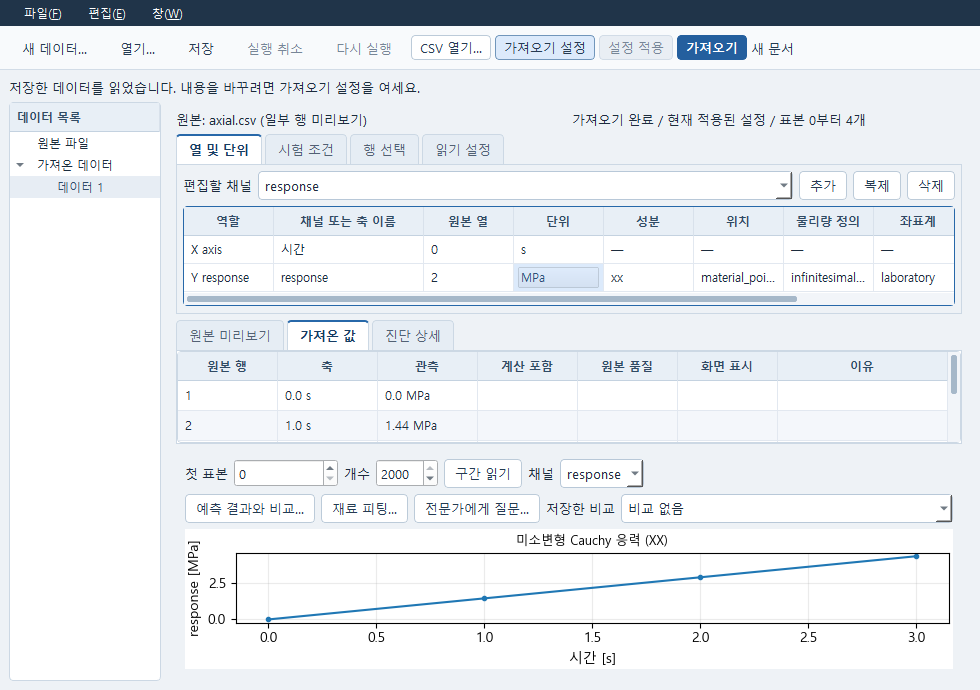
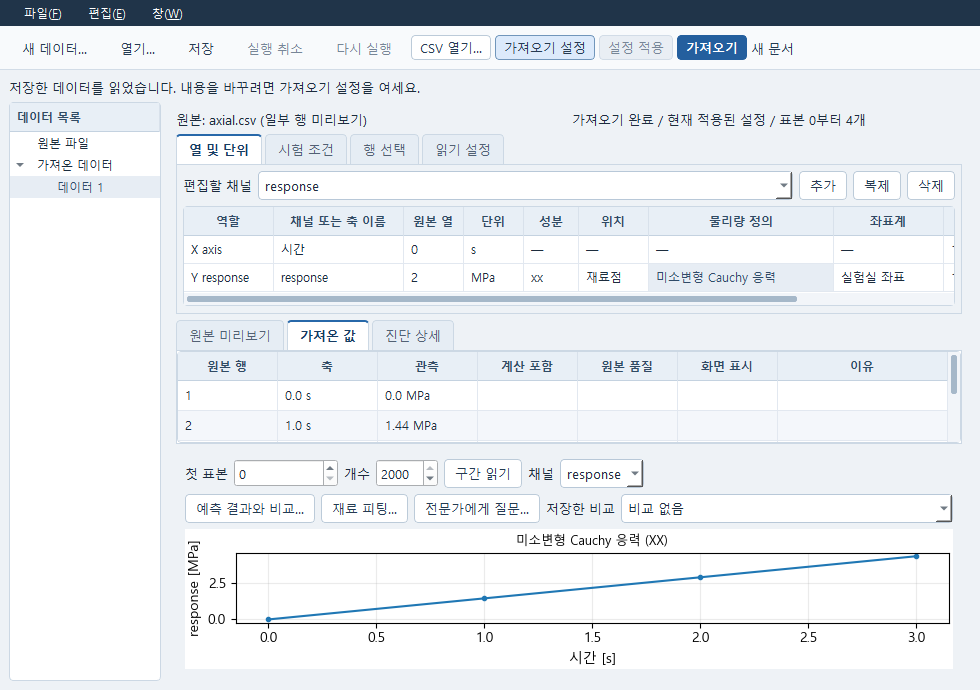
Show readable physical terms in Data tables while preserving original values

diff --git a/apps/research/data_window.py b/apps/research/data_window.py
@@ -12,13 +12,13 @@ import sys
 import threading
 import uuid
 
-from PySide6.QtCore import QObject, QRunnable, QThreadPool, QTimer, Qt, Signal, QItemSelectionModel
+from PySide6.QtCore import QObject, QRunnable, QThreadPool, QTimer, Qt, Signal, QItemSelectionModel, QEvent
 from shiboken6 import isValid
 from PySide6.QtGui import QAction, QKeySequence
 from PySide6.QtWidgets import (
     QApplication, QAbstractItemView, QComboBox, QDialog, QFileDialog, QHBoxLayout, QHeaderView, QInputDialog,
     QLabel, QLineEdit, QMainWindow, QMessageBox, QPushButton, QPlainTextEdit,
-    QScrollArea, QSpinBox, QSplitter, QTableWidget, QTableWidgetItem, QTabWidget, QToolBar,
+    QScrollArea, QSpinBox, QSplitter, QStyledItemDelegate, QTableWidget, QTableWidgetItem, QTabWidget, QToolBar,
     QTreeWidget, QTreeWidgetItem, QVBoxLayout, QWidget,
 )
 from matplotlib.backends.backend_qtagg import FigureCanvasQTAgg
@@ -31,6 +31,96 @@ from caelab.workbench_cli import serializable
 TERMINAL = {'SUCCEEDED', 'FAILED', 'CANCELLED', 'PARTIAL_FAILURE', 'INTERRUPTED', 'REJECTED'}
 TABLE_EXTENSIONS = ('.csv', '.txt', '.dat', '.asc', '.npz')
 MAX_ROWS = 2000
+
+# Same display terms as Material, Runner and report pages; never stored labels.
+_PHYSICAL_TERMS = {
+    'measure': {'force': '힘', 'torque': '토크', 'displacement': '변위', 'stress': '응력',
+                'infinitesimal_Cauchy': '미소변형 Cauchy 응력', 'first_Piola': '제1 Piola 응력',
+                'position': '위치', 'native_frame_index': '기록된 프레임'},
+    'component': {'x': 'X 방향', 'y': 'Y 방향', 'z': 'Z 방향',
+                  **{value: value.upper() for value in ('xx', 'yy', 'zz', 'xy', 'yx', 'xz', 'zx', 'yz', 'zy')}},
+    'location': {'material_point': '재료점'},
+    'frame': {'laboratory': '실험실 좌표', 'lab': '실험실 좌표',
+              'material_cartesian': '재료 직교좌표', 'global': '전체 좌표', 'local': '국부 좌표',
+              'document_global': '세계 좌표'},
+}
+
+
+class _PhysicalTermDelegate(QStyledItemDelegate):
+    """Paint known terms; the item and Data draft always keep exact raw text."""
+    def __init__(self, terms, parent):
+        super().__init__(parent)
+        self.terms = terms
+
+    def displayText(self, value, locale):
+        return self.terms.get(str(value), str(value))
+
+    def createEditor(self, parent, option, index):
+        editor = QComboBox(parent)
+        editor.setEditable(True)
+        editor.setInsertPolicy(QComboBox.InsertPolicy.NoInsert)
+        editor.setCompleter(None)
+        # Qt otherwise emits activated on focus-out when typed text matches a label.
+        # Only an explicit item choice may replace free text with its raw token.
+        editor.lineEdit().editingFinished.disconnect()
+        for raw, label in self.terms.items():
+            if editor.findText(label) < 0:
+                editor.addItem(label, raw)
+                editor.setItemData(editor.count()-1, '원 기록: ' + raw, Qt.ItemDataRole.ToolTipRole)
+        editor.setProperty('dataPhysicalEditor', True)
+        editor.lineEdit().textEdited.connect(lambda _: editor.setProperty('typed', True))
+        def selected(_):
+            editor.setProperty('choiceRaw', editor.currentData())
+            editor.setProperty('choiceText', editor.currentText())
+            editor.setProperty('typed', False)
+            self.commitData.emit(editor)
+            self.closeEditor.emit(editor, self.EndEditHint.NoHint)
+        editor.activated.connect(selected)
+        editor.lineEdit().installEventFilter(self)
+        editor.view().setMinimumWidth(max(editor.fontMetrics().horizontalAdvance(label)
+            for label in self.terms.values()) + 40)
+        return editor
+
+    def setEditorData(self, editor, index):
+        raw = index.data(Qt.ItemDataRole.EditRole)
+        selected = editor.findData(raw)
+        if selected < 0 and raw in self.terms:
+            selected = editor.findText(self.terms[raw])
+            editor.setItemData(selected, raw)  # Preserve aliases such as lab/laboratory.
+            editor.setItemData(selected, '원 기록: ' + raw, Qt.ItemDataRole.ToolTipRole)
+        if selected < 0:
+            editor.addItem(str(raw), raw)
+            selected = editor.count()-1
+        editor.setCurrentIndex(selected)
+        editor.setProperty('choiceRaw', raw)
+        editor.setProperty('choiceText', editor.currentText())
+        editor.setProperty('typed', False)
+        editor.lineEdit().selectAll()
+
+    def setModelData(self, editor, model, index):
+        text = editor.currentText()
+        undone = text == editor.property('choiceText') and not editor.lineEdit().isUndoAvailable()
+        raw = editor.property('choiceRaw') if not editor.property('typed') or undone else text
+        model.setData(index, raw, Qt.ItemDataRole.EditRole)
+
+    def eventFilter(self, watched, event):
+        editor = watched if isinstance(watched, QComboBox) else watched.parentWidget()
+        if isinstance(editor, QComboBox) and editor.property('dataPhysicalEditor'):
+            if event.type() == QEvent.Type.KeyPress:
+                key = event.key()
+                if key == Qt.Key.Key_Escape:
+                    self.closeEditor.emit(editor, self.EndEditHint.RevertModelCache)
+                    return True
+                hints = {Qt.Key.Key_Return: self.EndEditHint.NoHint, Qt.Key.Key_Enter: self.EndEditHint.NoHint,
+                         Qt.Key.Key_Tab: self.EndEditHint.EditNextItem, Qt.Key.Key_Backtab: self.EndEditHint.EditPreviousItem}
+                if key in hints:
+                    # Commit before QComboBox can auto-select a matching typed label.
+                    self.commitData.emit(editor)
+                    self.closeEditor.emit(editor, hints[key])
+                    return True
+            if watched is not editor:
+                return False
+        return super().eventFilter(watched, event)
 
 
 def display(value):
@@ -317,7 +407,10 @@ class DataWindow(QMainWindow):
         self.mapping.setHorizontalHeaderLabels(['역할', '채널 또는 축 이름', '원본 열', '단위', '성분', '위치', '물리량 정의', '좌표계', '배율', '보정값'])
         self.mapping.horizontalHeader().setSectionResizeMode(QHeaderView.ResizeMode.Interactive)
         self.mapping.horizontalHeader().setDefaultSectionSize(90)
-        self.mapping.setColumnWidth(1, 150)
+        for column, width in enumerate((90, 130, 60, 60, 55, 70, 185, 110)):
+            self.mapping.setColumnWidth(column, width)
+        for column, key in ((5, 'location'), (6, 'measure'), (7, 'frame')):
+            self.mapping.setItemDelegateForColumn(column, _PhysicalTermDelegate(_PHYSICAL_TERMS[key], self.mapping))
         self.mapping.horizontalHeaderItem(3).setToolTip('Unit of the imported value after Scale and Offset. A label change does not convert values.')
         self.mapping.horizontalHeaderItem(8).setToolTip('Imported value = original value * Scale + Offset. Applied independently to axis and response; default Scale is 1.')
         self.mapping.horizontalHeaderItem(9).setToolTip('Added after scaling, in the declared imported unit; default Offset is 0.')
@@ -1700,20 +1793,8 @@ class DataWindow(QMainWindow):
                         self.axes.plot([a for a, _ in points], [b for _, b in points], linestyle='--', marker='x', label='Retained prediction')
                 self.axes.legend()
         axis_name = axis.get('name', 'unknown')
-        # Match the physical terms used by Material, Runner and report pages.
-        meanings = {
-            'measure': {'force': '힘', 'torque': '토크', 'displacement': '변위', 'stress': '응력',
-                        'infinitesimal_Cauchy': '미소변형 Cauchy 응력', 'first_Piola': '제1 Piola 응력',
-                        'position': '위치', 'native_frame_index': '기록된 프레임'},
-            'component': {'x': 'X 방향', 'y': 'Y 방향', 'z': 'Z 방향',
-                          **{value: value.upper() for value in ('xx', 'yy', 'zz', 'xy', 'yx', 'xz', 'zx', 'yz', 'zy')}},
-            'location': {'material_point': '재료점'},
-            'frame': {'lab': '실험실 좌표', 'laboratory': '실험실 좌표',
-                      'material_cartesian': '재료 직교좌표', 'global': '전체 좌표', 'local': '국부 좌표',
-                      'document_global': '세계 좌표'},
-        }
-        physical = {key: meanings[key].get(value, value) if isinstance(value, str) else display(value)
-                    for key in meanings for value in [response.get(key, '미기록')]}
+        physical = {key: _PHYSICAL_TERMS[key].get(value, value) if isinstance(value, str) else display(value)
+                    for key in _PHYSICAL_TERMS for value in [response.get(key, '미기록')]}
         title = f"{physical['measure']} ({physical['component']})"
         self.canvas.setToolTip('\n'.join(
             caption + ': ' + physical[key] for key, caption in
